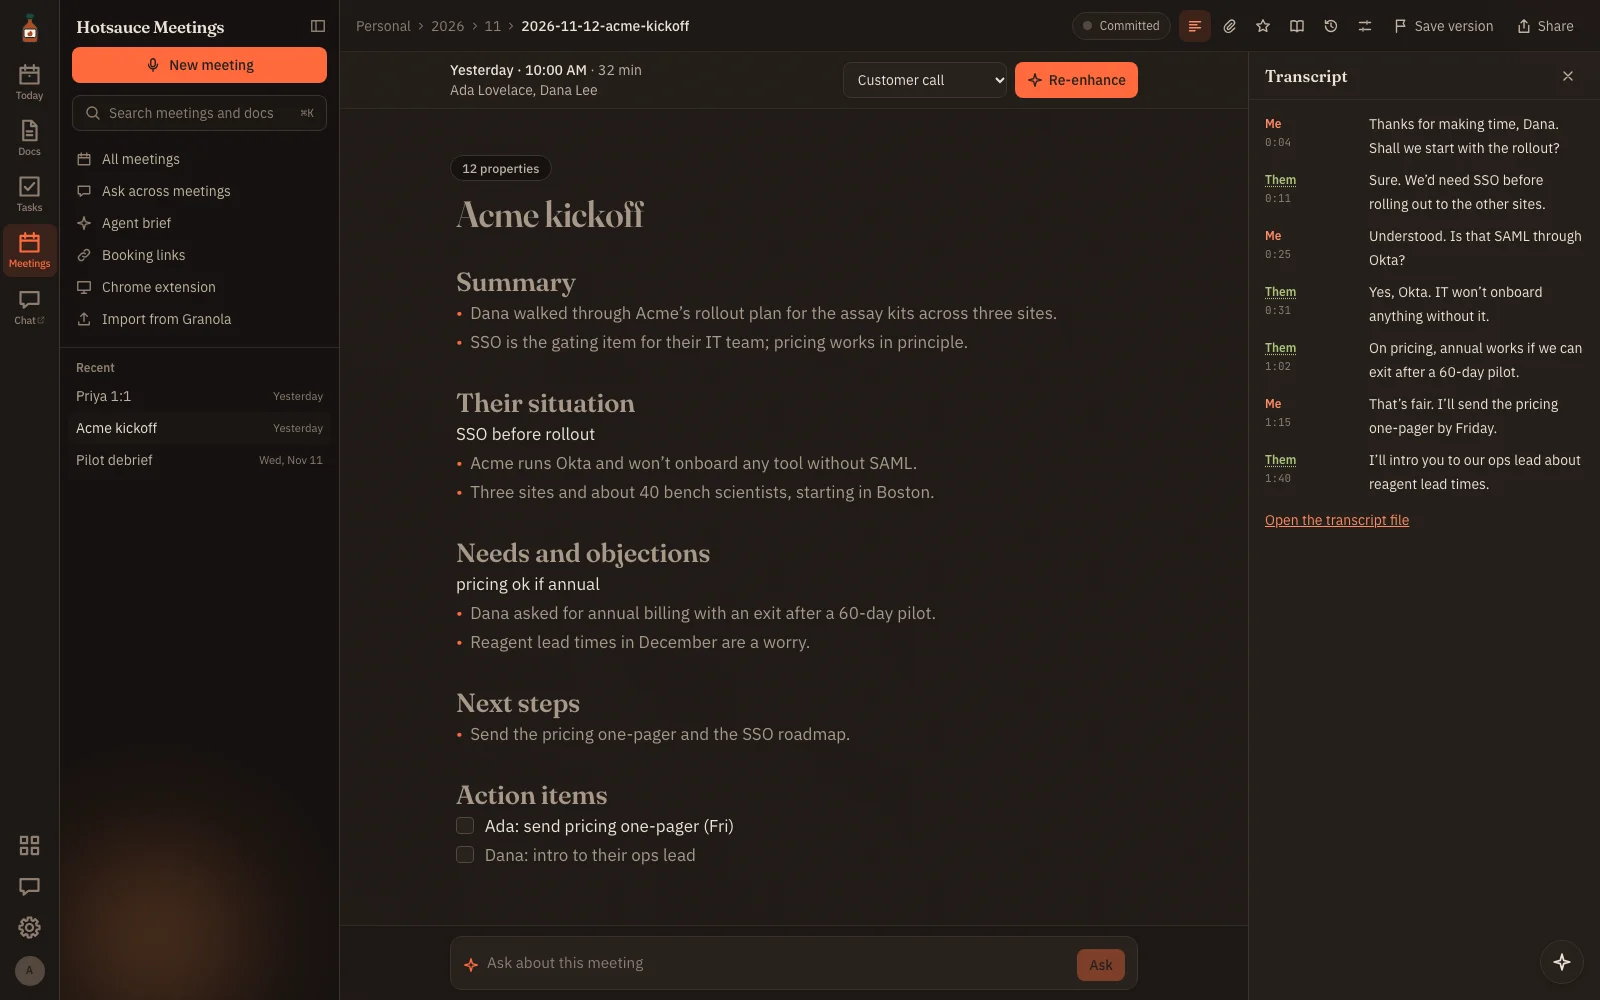
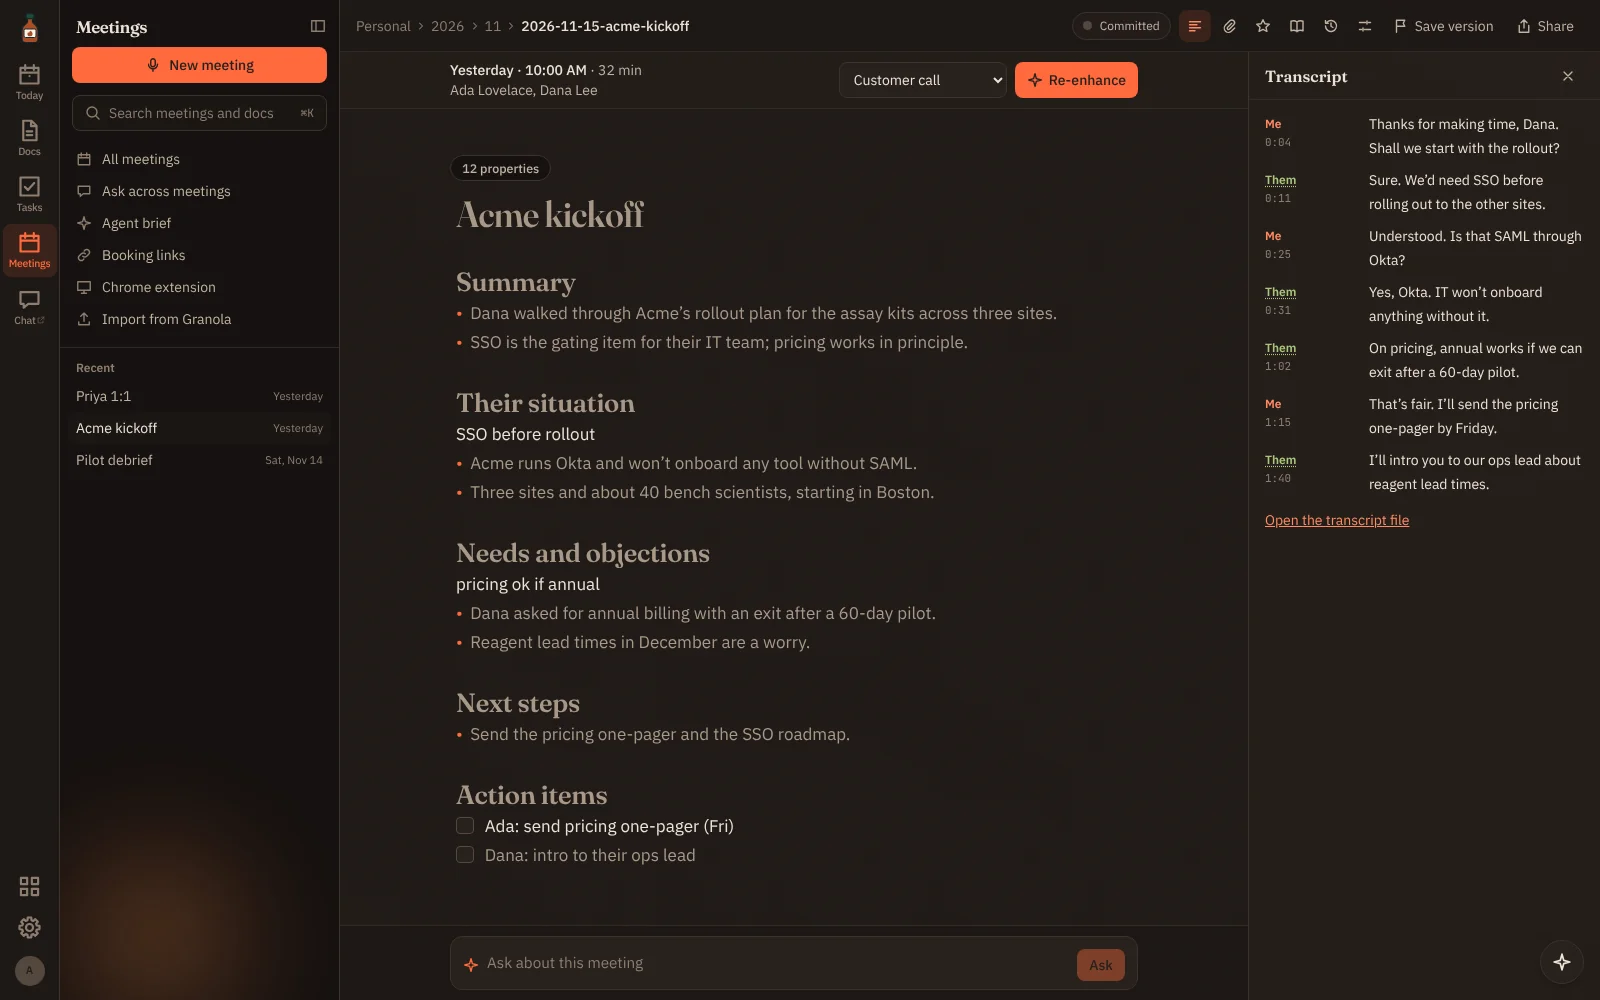
README: Links, Tables, offline, What's new and Usage; fresh screenshots
The README now covers what shipped Nov 15-16: Links (read-later, PDFs and
papers, reading position, highlights), Tables, working offline, self-update
and What's new, the admin Usage page, Getting started on Today, and that
releases number themselves. Screenshots re-shot from the current app (plain
titles, comments under docs). STATUS.md brought to 0.28.0 and its in-flight
list cleaned up.

Claude-Session: https://claude.ai/code/session_01BSKraTQsgW6GLUpFzjNSjC

Changed region(s): [[0.5312, 0.062, 0.5938, 0.093], [0.0625, 0.0, 0.125, 0.031], [0.0, 0.837, 0.0312, 0.899]]

diff --git a/README.md b/README.md
@@ -4,7 +4,7 @@
 
 <p align="center">
   <b>The open sauce office suite.</b><br>
-  Docs, AI meeting notes, tasks, notes, whiteboards, dictation and screen recordings for a small team,<br>
+  Docs, AI meeting notes, tasks, notes, boards, a read-later list, dictation and screen recordings for a small team,<br>
   on a server you run, with every file kept as plain Markdown in git.
 </p>
 
@@ -28,7 +28,7 @@
 
 ## Why Hotsauce
 
-**Your files stay yours.** Every doc, meeting note, task and note is a Markdown file in a git
+**Your files stay yours.** Every doc, meeting note, task, note and saved link is a Markdown file in a git
 repository, on your server or in your GitHub organization. Open it in any editor, grep it, back it up,
 walk away with it. The database is only a search cache: delete it and Hotsauce rebuilds it from git.
 
@@ -40,8 +40,8 @@ screen recording and more share one sign-in, one search, one brand and one place
 lives.
 
 **Agents are first-class.** A built-in MCP server lets any AI tool (Claude, ChatGPT, Grok, Cursor, Codex or a
-script; sign in or use a token) search, read and write your docs, meetings, tasks, clips
-and files as you, with the same permissions you have. History shows which tool made each change.
+script; sign in or use a token) search, read and write your docs, meetings, tasks, clips,
+saved links and files as you, with the same permissions you have. History shows which tool made each change.
 
 ## What's in the box
 
@@ -51,11 +51,12 @@ The home page: a live clock, what's next and (if you turn it on) the weather up 
 arrange yourself. Out of the box they're your meetings for the day with one click to take notes, tasks
 due and overdue, to-dos from your meeting notes that aren't tasks yet, docs that changed since
 yesterday, and your agent brief. Edit Today adds starred docs, Dictate and clip shortcuts, people,
-recent files, a whiteboard and a week view, and moves or removes any tile.
+recent files, a board and a week view, and moves or removes any tile. A new teammate's Today starts
+with a short Getting started list: connect the calendar, get the Mac app, find the team's docs.
 
 <picture>
   <source media="(prefers-color-scheme: dark)" srcset="docs/screenshots/today-dark.webp">
-  <img src="docs/screenshots/today-light.webp" alt="The Today page with the clock and weather, meetings, tasks and a week view">
+  <img src="docs/screenshots/today-light.webp" alt="The Today page with Getting started, a check-in, the day's meetings and tasks">
 </picture>
 
 ### Meetings
@@ -104,8 +105,17 @@ a passage, and @mention a teammate to send them a notification that opens on you
 
 <picture>
   <source media="(prefers-color-scheme: dark)" srcset="docs/screenshots/default-docs-dark.webp">
-  <img src="docs/screenshots/default-docs-light.webp" alt="A doc in Hotsauce Docs, with the file tree and outline">
+  <img src="docs/screenshots/default-docs-light.webp" alt="A doc in Hotsauce Docs, with the file tree and the comments under it">
 </picture>
+
+### Links
+
+A read-later list for the team. Save a page from the Chrome extension, your phone or the app, and
+Hotsauce keeps a clean copy to read and the page as you saw it. PDFs and papers work too: paste an
+address or add the file, and arXiv, bioRxiv and medRxiv papers come with their authors, abstract and
+DOI. Hotsauce remembers where you stopped reading and shows how much you've read. Highlight passages,
+add notes, see every highlight on one tab, and copy them into a doc. Search, Ask, Briefcast and your AI
+tools can all read what you saved. [More in the help center](https://hotsauce.work/help/links).
 
 ### Everything else
 
@@ -114,6 +124,7 @@ a passage, and @mention a teammate to send them a notification that opens on you
 | **People** | Everyone you meet with, from your calendar and meeting notes: past and next meetings, open to-dos, and a short note about each person. |
 | **Boards** | Hand-drawn boards the whole team can draw on at once, saved as files you can search. |
 | **Files** | Upload and share files and folders, with previews and search across what's inside them. |
+| **Tables** | Trackers with spreadsheet formulas, kept as CSV files in git. |
 | **Forms** | Surveys, sign-ups and requests for your team or anyone with the link. Answers land in Hotsauce, where you can search them. |
 | **Check-ins** | A question the team answers on a schedule, like "What will you get done this week?". A reminder in each person's time zone, answers by typing or voice, replies, and one summary to your chat room. |
 | **Share pages** | Share a read-only link to a doc, note or meeting, or publish a page. |
@@ -137,6 +148,12 @@ the same tools as [the MCP server](docs/mcp.md), as you, so it sees only what yo
 Conversations are private to each person. Admins pick the model (Claude Sonnet or Opus), see each
 person’s use this month, and can set a monthly limit, in Settings → AI.
 
+### Works offline
+
+Once you've opened Hotsauce on a device, it opens there without a connection too. Edits you make to
+docs while offline are kept on the device, even through a reload, and sent when you're back online.
+Anything that needs the server says so instead of failing quietly.
+
 ### Keyboard first
 
 Press ⌘K (Ctrl+K) to search everything, jump anywhere, add a task (`task: call Sam tomorrow`) or hand a
@@ -148,7 +165,8 @@ app you’re in, and `?` shows every shortcut for the page you’re on. The full
 
 Name the workspace after your company, add your logo, and pick colors, fonts and a default light or
 dark look. Every app follows, and agents can read the brand kit too, so what they write sounds like
-you. Invite people from outside your company by email.
+you. Invite people from outside your company by email. Admins get a **Usage** page that shows how
+much each app is used week by week, counted from history: nothing is tracked.
 
 <picture>
   <source media="(prefers-color-scheme: dark)" srcset="docs/screenshots/branded-docs-dark.webp">
@@ -238,7 +256,12 @@ Or run [`deploy/docker-compose.yml`](deploy/docker-compose.yml) yourself. The
 
 ### Stay up to date
 
-Each copy has an **Update Hotsauce** workflow that checks every Monday for a new release and opens a
+On Fly.io, Hotsauce can update itself: with a Fly deploy token set, **Settings → Data and updates**
+installs each new release within about an hour and rolls back if it fails its health check.
+**Settings → What's new** lists what changed in each release, in plain words (also at
+[hotsauce.work/changes](https://hotsauce.work/changes)).
+
+Each copy also has an **Update Hotsauce** workflow that checks every Monday for a new release and opens a
 pull request with it, keeping your own changes. Merging deploys it: Cloudflare redeploys on every push,
 and on Fly a workflow does it once you add a deploy token. See
 [Staying up to date](docs/self-host.md#staying-up-to-date).
@@ -281,6 +304,9 @@ pnpm lint && pnpm typecheck
 pnpm test                    # unit + integration (Vitest)
 pnpm build && pnpm test:e2e  # Playwright, against the built app
 ```
+
+Releases number themselves: after each merge to `main` a workflow picks the next version, writes the
+release notes from the pull request, and publishes the image. See [CONTRIBUTING.md](CONTRIBUTING.md#releases).
 
 Hotsauce started as an internal tool called Hearth. A few saved names still say "hearth" on purpose,
 so files, links and apps from older versions keep working: each space's `.hearth/` folder, `hearth:`

diff --git a/docs/STATUS.md b/docs/STATUS.md
@@ -1,6 +1,6 @@
 # Status
 
-What Hotsauce is today, read from the code on `main` at release 0.16.0 (2026-11-16). Each app is
+What Hotsauce is today, read from the code on `main` at release 0.28.0 (2026-11-16). Each app is
 two lines: what it does, and what it needs beyond the base install. Keep this file current in the
 same PR as any change to an app; `apps/web/src/apps/statusDoc.test.ts` fails when an app exists in
 the code but has no entry here.
@@ -92,7 +92,7 @@ Needs the AI key for the script and `OPENAI_API_KEY` for the voice (it also need
 - **Mac app** (`apps/dictate-mac`), 0.14.4 on the `mac-app` GitHub release: Dictate, meeting recording with call detection, Today's weather, the Go menu. Self-signed, not notarized, so macOS asks once to open it. Settings → Apps shows each Mac's version and whether an update exists (from `mac-app.json` on the release); the app's menu says "Update available" too. Updating is download and drag.
 - **Chrome extension** (`apps/extension`), 0.7.0: records Meet tabs, saves links in one click, connects in one click. In Chrome Web Store review; installed by hand until approved.
 - **Cloudflare** (`apps/cloudflare`): the Worker that runs Hotsauce on Cloudflare (one-click deploy). It needs GitHub repos and R2 for media; "On this server" storage is hidden there.
-- **MCP server** (`/mcp`, `docs/mcp.md`): any AI tool that sends a token header can search, read and write as the member. ChatGPT and Grok need OAuth, which is in flight.
+- **MCP server** (`/mcp`, `docs/mcp.md`): any AI tool can search, read and write as the member, either by signing in (OAuth, used by claude.ai, ChatGPT and Grok) or by sending a token header.
 - **Site** (`site/`): hotsauce.work, the help center, install guide and the live demo at demo.hotsauce.work.
 
 ## Built but switched off by default
@@ -112,9 +112,7 @@ production refuses the test stand-ins, so nothing pretends to work.
 
 Open pull requests on `main` at the date above (release numbers are taken at merge, not here):
 
-- **#110** GitHub publishes hotsauce.work and the demo on merge.
-- **#112** Releases number themselves.
-- **#108** Sign in to the MCP server from claude.ai, ChatGPT and Grok (OAuth).
+- **#134** For you: one list of every mention.
 - **Chrome Web Store** review of the extension (not a PR; waits on Google).
 - **A notarized Mac app** waits on an Apple Developer account.
 

diff --git a/docs/learnings/website.md b/docs/learnings/website.md
@@ -34,3 +34,10 @@
   so the whole deploy path can be checked from a cloud session.
 - **The demo build is reproducible:** a fresh build's `demo/index.html` matched the live one byte
   for byte, so comparing it is a real check that the demo went out.
+
+## README screenshots (Nov 16)
+
+- **Re-shoot them from the mock web app, not a real server.** `cd apps/web && VITE_MOCK_API=1 npx vite --port 5191`, sign in at `/sign-in` as `ada@example.test`, and shoot at 1600×1000 with Playwright's `colorScheme` set to light, then dark. Install the page clock at 7:50 AM so Today says "Good morning" and the next meeting is a minute away.
+- **Linux shows "Ctrl K" in the search box.** The sidebar reads `navigator.platform`, not the user agent: add an init script that makes it `MacIntel` so the shots show ⌘K and the placeholder doesn't wrap.
+- **The branded shot needs a brand the mock doesn't have.** Patch the `/api/org/brand` answer in `apps/web/src/mocks/handlers.ts` for the one shot (green primary, `modern` fonts, a data-URL `markUrl`), then put the file back. Don't commit it: the live demo uses the same mock.
+- **Links has no demo data.** The live demo's Links page says it couldn't load, so there is no Links screenshot yet.
